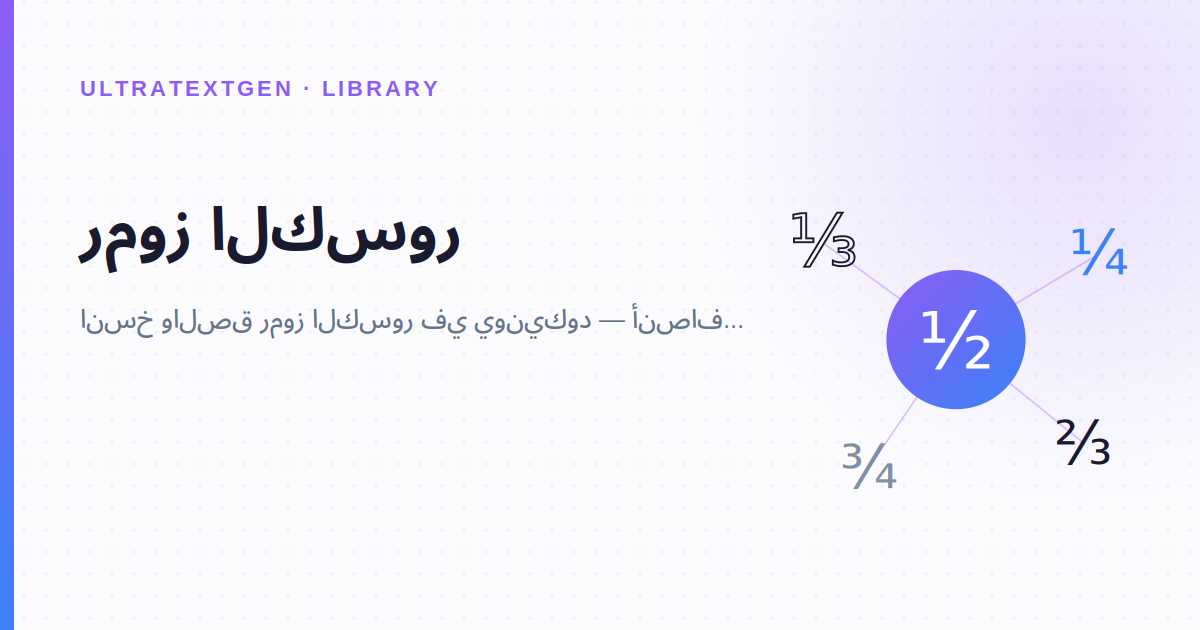
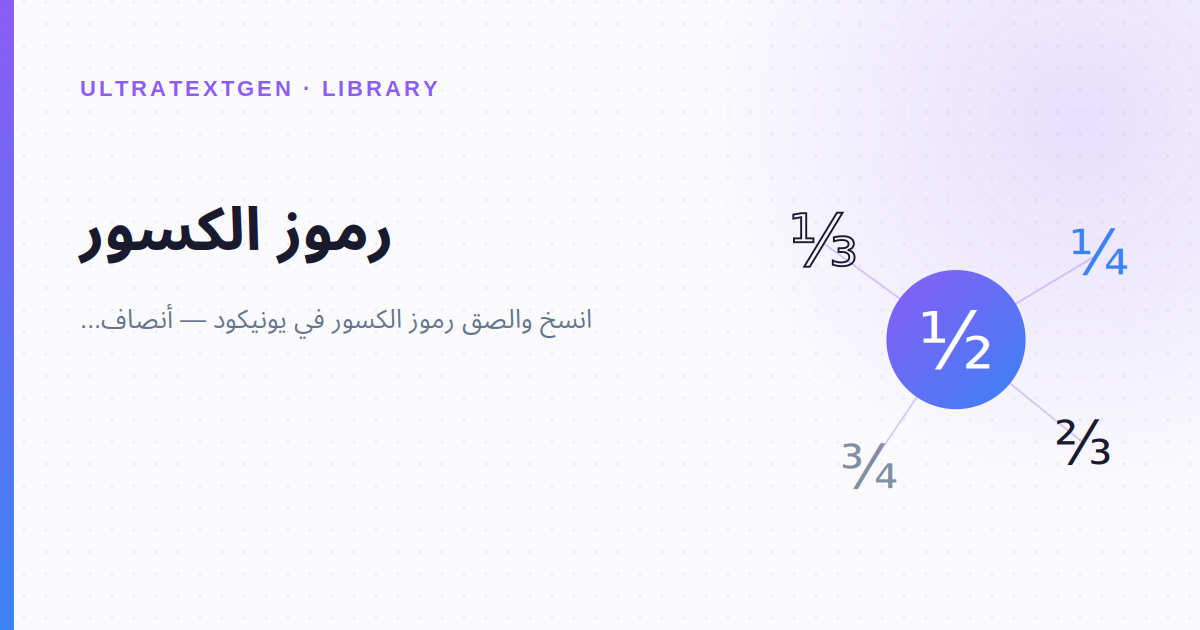
fix: shape Arabic text correctly in generated OG/hero cards
cairosvg lays out codepoints in logical order with no shaping or bidi
engine, so Arabic — which joins letters contextually and reads
right-to-left — rendered as disconnected, reversed glyphs on every AR
page with its own social card. Devanagari and other scripts were
unaffected (no contextual joining needed).

spanned() now runs Arabic strings through arabic_reshaper.reshape()
(contextual joining) then bidi.get_display() (visual reordering) before
the existing per-character font-cmap resolution, both lightweight
build-time deps in the same category as the existing cairosvg dependency.

Regenerated all 30 affected cards: mutarjim-emoji, khat-bio, zakhrafa,
24 library/* pages, asmaa-free-fire, asmaa-pubg, vertical-text — and gave
mutarjim-emoji/khat-bio back their own branded cards now that the root
cause is fixed, reverting the shared-English-card workaround from the
previous commit. No other page's art was touched.

Changed region(s): [[0.0617, 0.4825, 0.4933, 0.5429], [0.0617, 0.3317, 0.4008, 0.4222], [0.5242, 0.4825, 0.6167, 0.5429]]

diff --git a/ar/usecase/mutarjim-emoji/index.html b/ar/usecase/mutarjim-emoji/index.html
@@ -34,14 +34,14 @@
   <meta property="og:url" content="https://ultratextgen.com/ar/usecase/mutarjim-emoji/">
   <meta property="og:type" content="website">
   <meta property="og:site_name" content="UltraTextGen">
-  <meta property="og:image" content="https://ultratextgen.com/assets/og/usecase-text-to-emoji.png">
+  <meta property="og:image" content="https://ultratextgen.com/assets/og/ar-usecase-mutarjim-emoji.png">
   <meta property="og:image:width" content="1200">
   <meta property="og:image:height" content="630">
   <meta property="og:image:type" content="image/png">
   <meta name="twitter:card" content="summary_large_image">
   <meta name="twitter:title" content="مترجم إيموجي — تحويل النص إلى إيموجي والإيموجي إلى نص | UltraTextGen">
   <meta name="twitter:description" content="مترجم إيموجي مجاني: حوّل النص إلى إيموجي فورًا أو فُكّ ترميز الإيموجي إلى كلمات عربية. جاهز للنسخ، بلا تسجيل.">
-  <meta name="twitter:image" content="https://ultratextgen.com/assets/og/usecase-text-to-emoji.png">
+  <meta name="twitter:image" content="https://ultratextgen.com/assets/og/ar-usecase-mutarjim-emoji.png">
 
   <link rel="preconnect" href="https://fonts.googleapis.com">
   <link rel="preconnect" href="https://fonts.gstatic.com" crossorigin>
@@ -140,7 +140,7 @@
 
 
 <figure class="page-hero-figure" data-uthero aria-hidden="true">
-  <img src="/assets/hero/usecase-text-to-emoji.svg" width="1200" height="340"
+  <img src="/assets/hero/ar-usecase-mutarjim-emoji.svg" width="1200" height="340"
        loading="lazy" alt="">
 </figure>
   <!-- Hero Section -->

diff --git a/ar/usecase/khat-bio/index.html b/ar/usecase/khat-bio/index.html
@@ -39,14 +39,14 @@
   <meta property="og:url" content="https://ultratextgen.com/ar/usecase/khat-bio/">
   <meta property="og:type" content="website">
   <meta property="og:locale" content="ar_AR">
-  <meta property="og:image" content="https://ultratextgen.com/assets/og/usecase-bio-font.png">
+  <meta property="og:image" content="https://ultratextgen.com/assets/og/ar-usecase-khat-bio.png">
   <meta property="og:image:width" content="1200">
   <meta property="og:image:height" content="630">
   <meta property="og:image:type" content="image/png">
   <meta name="twitter:card" content="summary_large_image">
   <meta name="twitter:title" content="خط للبايو — زخرفة نصوص بايو انستقرام">
   <meta name="twitter:description" content="مولّد خط للبايو: زخرفة نصوص بايو انستقرام وتيك توك وديسكورد وواتساب. خطوط ورموز وقوالب جاهزة، مع عداد أحرف مباشر لكل منصة.">
-  <meta name="twitter:image" content="https://ultratextgen.com/assets/og/usecase-bio-font.png">
+  <meta name="twitter:image" content="https://ultratextgen.com/assets/og/ar-usecase-khat-bio.png">
 
   <link rel="stylesheet" href="/style.css">
   <link rel="stylesheet" href="/usecase/bio-font/bio-font.css">
@@ -283,7 +283,7 @@
 
 
 <figure class="page-hero-figure" data-uthero aria-hidden="true">
-  <img src="/assets/hero/usecase-bio-font.svg" width="1200" height="340"
+  <img src="/assets/hero/ar-usecase-khat-bio.svg" width="1200" height="340"
        loading="lazy" alt="">
 </figure>
   <!-- Hero Section -->

diff --git a/scripts/generate-site-art.py b/scripts/generate-site-art.py
@@ -12,6 +12,9 @@ For each page it emits:
 
 Run:  python3 scripts/generate-site-art.py
 Requires: cairosvg (PNG rasterization). SVGs are valid standalone assets.
+Arabic titles additionally need arabic-reshaper + python-bidi (cairosvg has
+no shaping/bidi engine of its own — see spanned()) and the fonts-noto-core
+apt package for Noto Sans Arabic/Devanagari glyph coverage.
 
 Visual system (shared with the guide set): soft off-white panel, brand
 purple->blue gradient accents, a faint dot grid, and one focal motif per page
@@ -149,6 +152,17 @@ def spanned(text, native):
     font cmaps. native is a family name from NATIVE_SCRIPT, or None."""
     if not text:
         return ""
+    if native == "Noto Sans Arabic":
+        # cairosvg has no shaping engine — it draws codepoints in logical
+        # order, left to right, which renders Arabic as disconnected
+        # isolated-form letters read in the wrong direction. Reshape into
+        # the correct contextual (joined) presentation forms, then reorder
+        # into visual order, so the plain per-character layout below,
+        # which resolves each *already-correct* glyph against font cmaps,
+        # just works.
+        import arabic_reshaper
+        from bidi.algorithm import get_display
+        text = get_display(arabic_reshaper.reshape(text))
     runs, cur, cur_family = [], "", None
     first = True
     for ch in text:
@@ -1161,9 +1175,7 @@ PAGES = {
   "fr-usecase-ecriture-bio": ("Écriture Stylée pour Bio", "Polices et symboles pour votre bio Instagram", m_profile, K_USE),
   "es-usecase-letras-para-bio": ("Letras para Bio", "Fuentes y símbolos para tu biografía de Instagram", m_profile, K_USE),
   "it-usecase-font-per-bio": ("Font per la Bio", "Caratteri e simboli per la tua bio Instagram", m_profile, K_USE),
-  # ar-usecase-khat-bio intentionally absent — see the ar/hi note below,
-  # in the emoji-translator block (cairosvg can't shape Arabic; the page
-  # keeps the shared English card).
+  "ar-usecase-khat-bio": ("خط للبايو", "خطوط ورموز لبايو انستقرام", m_profile, K_USE),
   "cs-usecase-pismo-pro-bio": ("Písmo pro Bio", "Fonty a symboly pro tvoje bio na Instagramu", m_profile, K_USE),
   "sk-usecase-pismo-pre-bio": ("Písmo pre Bio", "Fonty a symboly pre tvoje bio na Instagrame", m_profile, K_USE),
   "nl-usecase-lettertype-voor-bio": ("Lettertype voor Bio", "Lettertypes en symbolen voor je Instagram bio", m_profile, K_USE),
@@ -1180,14 +1192,14 @@ PAGES = {
 
   # ---- localized emoji-translator + emoji-letters cards ----
   # (bio-font locale cards are owned by the bio-font localization effort.)
-  # Native-script title for ar is intentionally omitted: the bundled raster
-  # fonts don't shape Arabic's contextual joining and cairosvg does no
-  # complex-script shaping, so mutarjim-emoji keeps the shared English card.
-  # Devanagari (hi) has no such problem — Noto Sans Devanagari's precomposed
-  # conjuncts render correctly with cairosvg's simple mark placement — so hi
-  # gets its own card like every other locale here.
+  # Arabic and Devanagari both get their own card: spanned() pre-shapes
+  # Arabic through arabic_reshaper + python-bidi before layout (cairosvg has
+  # no shaping/bidi engine of its own), and Noto Sans Devanagari's
+  # precomposed conjuncts already render correctly with simple mark
+  # placement, so neither needs the shared-English-card fallback.
   "de-usecase-emoji-uebersetzer": ("Emoji-Übersetzer", "Text in Emojis – und zurück", m_smiley, K_USE),
   "tr-usecase-emoji-ceviri": ("Emoji Çevirici", "Metni emojiye çevir, geri çöz", m_smiley, K_USE),
+  "ar-usecase-mutarjim-emoji": ("مترجم إيموجي", "النص إلى إيموجي، وبالعكس", m_smiley, K_USE),
   "hi-usecase-emoji-anuvadak": ("इमोजी अनुवादक", "टेक्स्ट से इमोजी, और वापस", m_smiley, K_USE),
   "vi-usecase-dich-emoji": ("Dịch Emoji", "Chuyển văn bản thành emoji", m_smiley, K_USE),
   "es-usecase-traductor-de-emojis": ("Traductor de Emojis", "Texto a emojis y al revés", m_smiley, K_USE),

diff --git a/docs/image-seo-fixes.md b/docs/image-seo-fixes.md
@@ -248,3 +248,26 @@ gated on demonstrated demand here the same way it is everywhere else on the
 site (see CLAUDE.md's flair philosophy). As a locale's organic performance
 grows, add it to `LOCALIZED_HOME_MOTIF` — that registry is the whole
 extension point.
+
+---
+
+## 9. Arabic card text was garbled — fixed at the source (2026-07-13)
+
+Every AR page carrying its own OG/hero card (30 total: `mutarjim-emoji`,
+`khat-bio`, `zakhrafa`, 24 `library/*` pages, `asmaa-free-fire`,
+`asmaa-pubg`, `vertical-text`) had visibly broken title text on its social
+card — Arabic letters drawn in isolated form, disconnected from their
+neighbours, in reversed reading order. `cairosvg` lays out codepoints in
+logical string order with no shaping or bidi engine of its own, so Arabic —
+whose letters join contextually and read right-to-left — came out wrong
+while every other locale (including Devanagari, which doesn't need
+contextual joining) rendered fine.
+
+Fix: `spanned()` in `generate-site-art.py` now runs Arabic text through
+`arabic_reshaper.reshape()` (contextual joining) then `bidi.get_display()`
+(visual reordering) before the existing per-character font-cmap resolution
+— both are lightweight, build-time-only Python deps, same category as
+`cairosvg`. All 30 affected cards were regenerated; every other card on the
+site is untouched. `hi-usecase-emoji-anuvadak` also gained its own branded
+card in the same pass — it had been left on the generic English fallback
+even though Hindi was never actually affected by this bug.
